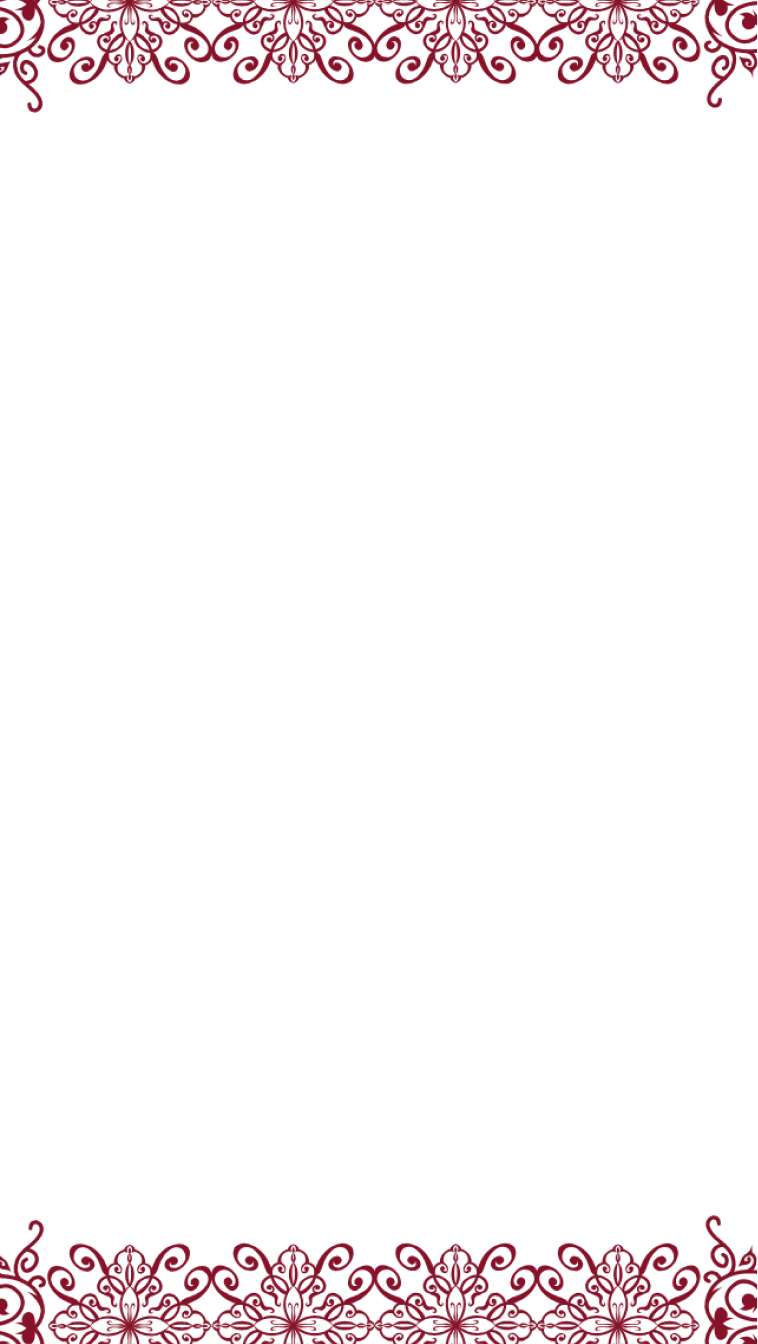
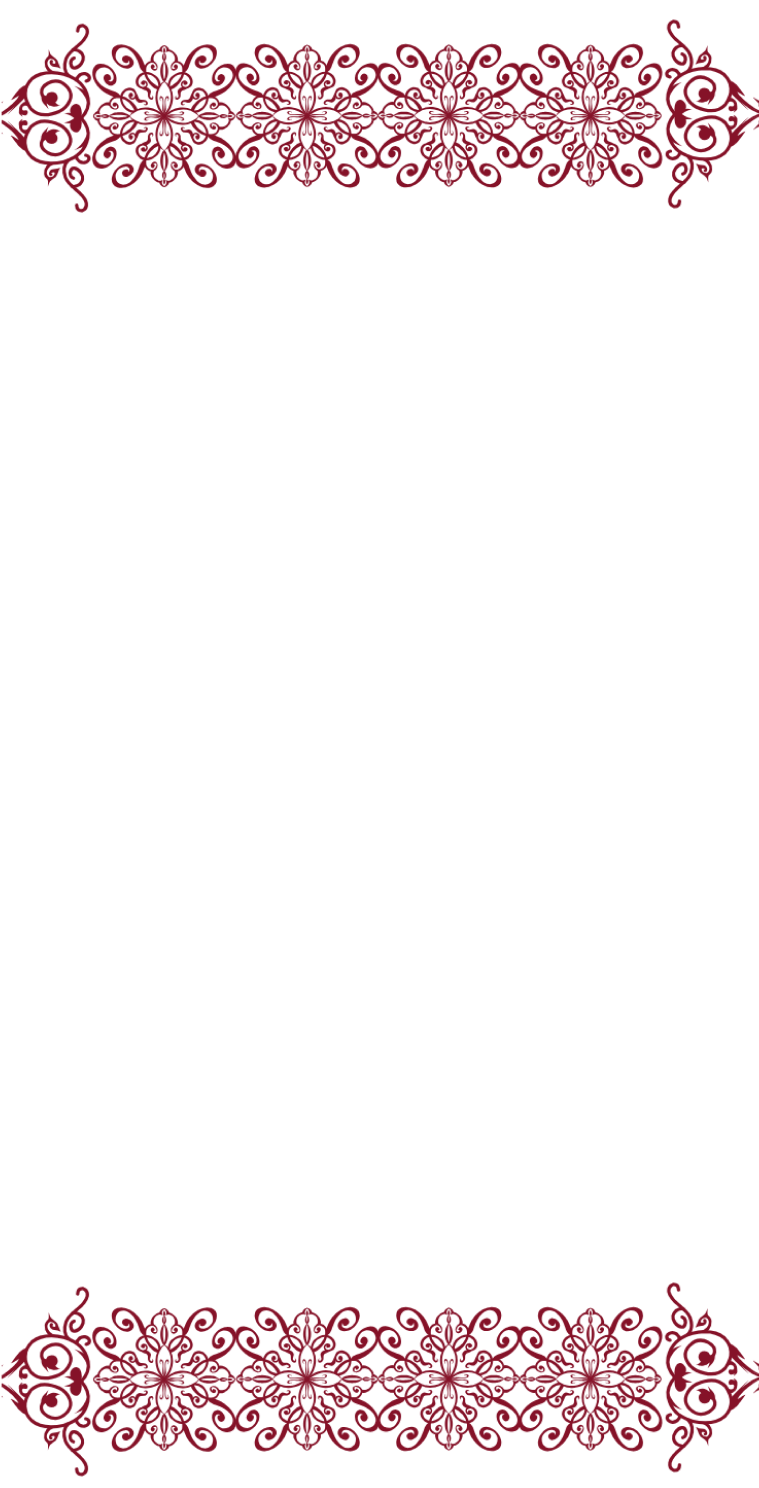
update frame section 4

Changed region(s): [[0.0, 0.8438, 1.0, 1.0], [0.0, 0.0, 1.0, 0.1562]]

diff --git a/style.css b/style.css
@@ -52,13 +52,13 @@ html {
 
 .img-background {
     position: absolute;
-    /* atau 'fixed' jika ingin tetap di layar saat scroll */
-    margin-bottom: 80px;
+    /* atau 'fixed' jika ingin tetap di tempat saat scroll */
+    top: 50%;
     left: 50%;
-    transform: translateX(-50%);
+    transform: translate(-50%, -50%);
     width: 100%;
-    /* atau bisa tetap 100% jika kamu memang ingin full */
-    max-width: 200%;
+    max-width: 100%;
+    /* atau ubah sesuai kebutuhan */
     display: block;
 }
 
